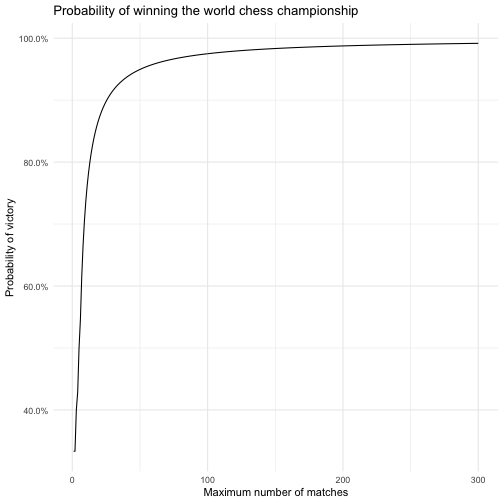
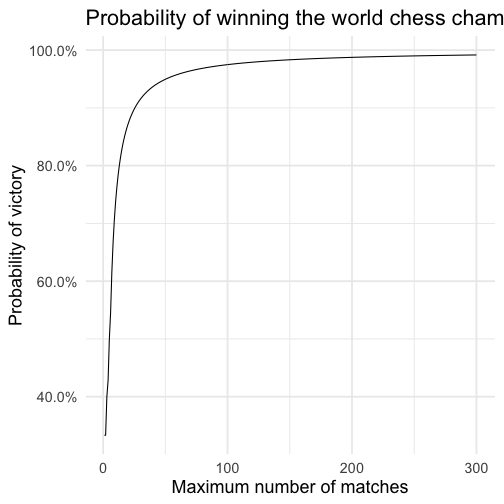
Change image size

diff --git a/_posts/2018-11-16-world-chess-championship.md b/_posts/2018-11-16-world-chess-championship.md
@@ -26,7 +26,7 @@ Based on the example [here](https://rpubs.com/JanpuHou/296336), I wrote a genera
 library(tidyverse)
 library(magrittr)
 
-theme_set(theme_minimal())
+theme_set(theme_minimal(base_size = 18))
 {% endhighlight %}
 
 
